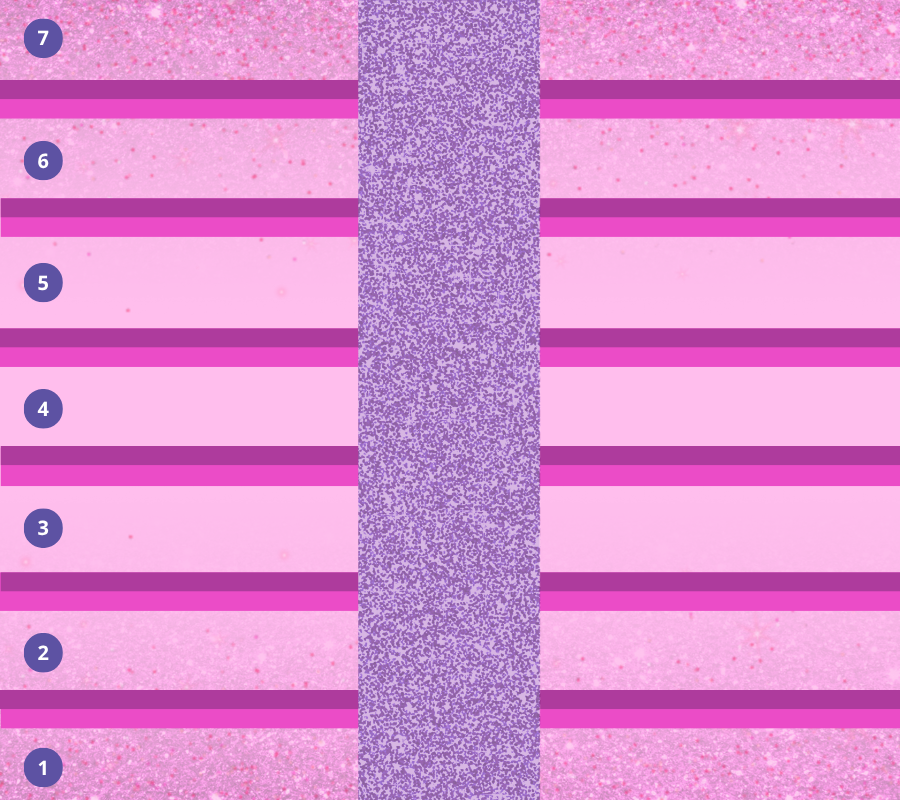
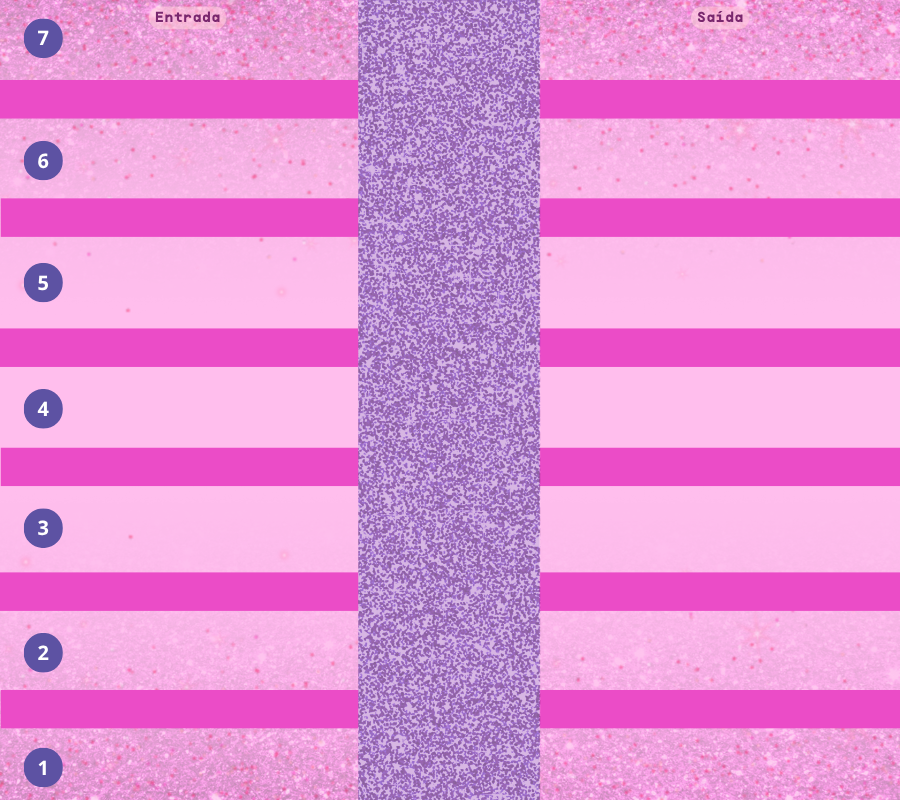
FIX: novo background e tentativa de solucionar alguns bugs

diff --git a/Simulador_Elevador/core/src/main/java/io/github/projetos_consoles/Passageiro.java b/Simulador_Elevador/core/src/main/java/io/github/projetos_consoles/Passageiro.java
@@ -7,14 +7,15 @@ public class Passageiro extends Thread {
     
     public volatile float x;
     public volatile float y;
-    public volatile int estado; // 0=Aguardando, 1=No Elevador, 2=Saindo
+    public volatile int estado; // Se, 0= Aguardando, 1= Dentro do Elevador, 2= Saindo
 
     public Passageiro(String nomeTextura, int andarOrigem, int andarDestino) {
         this.nomeTextura = nomeTextura;
         this.andarOrigem = andarOrigem;
         this.andarDestino = andarDestino;
+        // O elevador começara no estado de Aguardo
         this.estado = 0;
-        this.x = 80; // Inicia na sala da esquerda
+        this.x = 80; //Eixo x para demarcar a entrada das pôneis
         this.y = 20 + (andarOrigem * 114);
     }
 
@@ -48,7 +49,7 @@ public class Passageiro extends Thread {
             
             Predio.semAcaoConcluida.release();
 
-            // O passageiro após desembarcar andará para o final da tela
+            // O pônei andará até o final da tela, até a secção saída
             while(this.x < 950) {
                 this.x += 2;
                 Thread.sleep(15);

diff --git a/Simulador_Elevador/core/src/main/java/io/github/projetos_consoles/ElevadorGame.java b/Simulador_Elevador/core/src/main/java/io/github/projetos_consoles/ElevadorGame.java
@@ -64,7 +64,7 @@ public class ElevadorGame extends ApplicationAdapter {
         float larguraElevador = 900; 
         float alturaElevador = 850;
         
-        // Centralizar as portas no eixo do filete roxo
+        // Tentaiva de centralizar as portas no eixo do filete roxo
         float offsetElevadorX = (larguraElevador / 2) - 60; 
         float offsetElevadorY = (alturaElevador / 2) - 40; 
         
@@ -78,7 +78,7 @@ public class ElevadorGame extends ApplicationAdapter {
         float larguraPonei = 850;
         float alturaPonei = 850;
         float offsetPoneiX = (larguraPonei / 2) - 25;
-        float offsetPoneiY = (alturaPonei / 2) - 20; // tentativa de fazer a pônei ficar no chão
+        float offsetPoneiY = (alturaPonei / 2) - 20; // tentativa de fazer a pônei ficar no chão, mas algumas ficaram flutuando
 
         for (int i = 0; i < 6; i++) {
             Passageiro p = passageiros[i];

diff --git a/Simulador_Elevador/lwjgl3/src/main/java/io/github/projetos_consoles/lwjgl3/Lwjgl3Launcher.java b/Simulador_Elevador/lwjgl3/src/main/java/io/github/projetos_consoles/lwjgl3/Lwjgl3Launcher.java
@@ -14,13 +14,13 @@ public class Lwjgl3Launcher {
     private static Lwjgl3Application createApplication() {
         return new Lwjgl3Application(new ElevadorGame(), getDefaultConfiguration());
     }
-
+    // Evitar mexer aqui p/ não dar erro!
     private static Lwjgl3ApplicationConfiguration getDefaultConfiguration() {
         Lwjgl3ApplicationConfiguration configuration = new Lwjgl3ApplicationConfiguration();
         configuration.setTitle("Elevador");
         configuration.useVsync(true);
         configuration.setForegroundFPS(Lwjgl3ApplicationConfiguration.getDisplayMode().refreshRate);
-        configuration.setWindowedMode(900, 800); // Força a janela a ter a dimensão exata do fundo
+        configuration.setWindowedMode(900, 800);
         return configuration;
     }
 }

diff --git a/Simulador_Elevador/lwjgl3/src/main/java/io/github/projetos_consoles/lwjgl3/Main.java b/Simulador_Elevador/lwjgl3/src/main/java/io/github/projetos_consoles/lwjgl3/Main.java
@@ -1,5 +1,7 @@
 package io.github.projetos_consoles.lwjgl3;
 
+
+// Para eu conseguir rodar esse programa, terei que: pasta do arquivo>show in> terminal> digital .\gradlew lwjgl3:run
 import com.badlogic.gdx.backends.lwjgl3.Lwjgl3Application;
 import com.badlogic.gdx.backends.lwjgl3.Lwjgl3ApplicationConfiguration;
 import io.github.projetos_consoles.ElevadorGame;
@@ -9,7 +11,7 @@ public class Main {
         Lwjgl3ApplicationConfiguration config = new Lwjgl3ApplicationConfiguration();
         config.setTitle("Simulador de Elevador Mágico");
         
-        // Background e tela
+        // Background e tela da simulação
         config.setWindowedMode(900, 800);
         config.useVsync(true);
         config.setForegroundFPS(60);

diff --git a/Simulador_Elevador/core/src/main/java/io/github/projetos_consoles/Predio.java b/Simulador_Elevador/core/src/main/java/io/github/projetos_consoles/Predio.java
@@ -6,12 +6,12 @@ import java.util.concurrent.Semaphore;
 
 public class Predio {
     public static final int NUM_ANDARES = 7;
-    public static final int CAPACIDADE = 2; // Tentativa de 2 passageiros
+    public static final int CAPACIDADE = 2; // Tentativa de 2 passageiros por elevador
 
     // Semáforo Mutex
     public static Semaphore mutex = new Semaphore(1);
     
-    // Semáforos para sinalizar a condição
+    // Semáforos para sinalizar a condição do elevaodor
     public static Semaphore[] semEmbarque = new Semaphore[NUM_ANDARES];
     public static Semaphore[] semDesembarque = new Semaphore[NUM_ANDARES];
     public static Semaphore semAcaoConcluida = new Semaphore(0);
